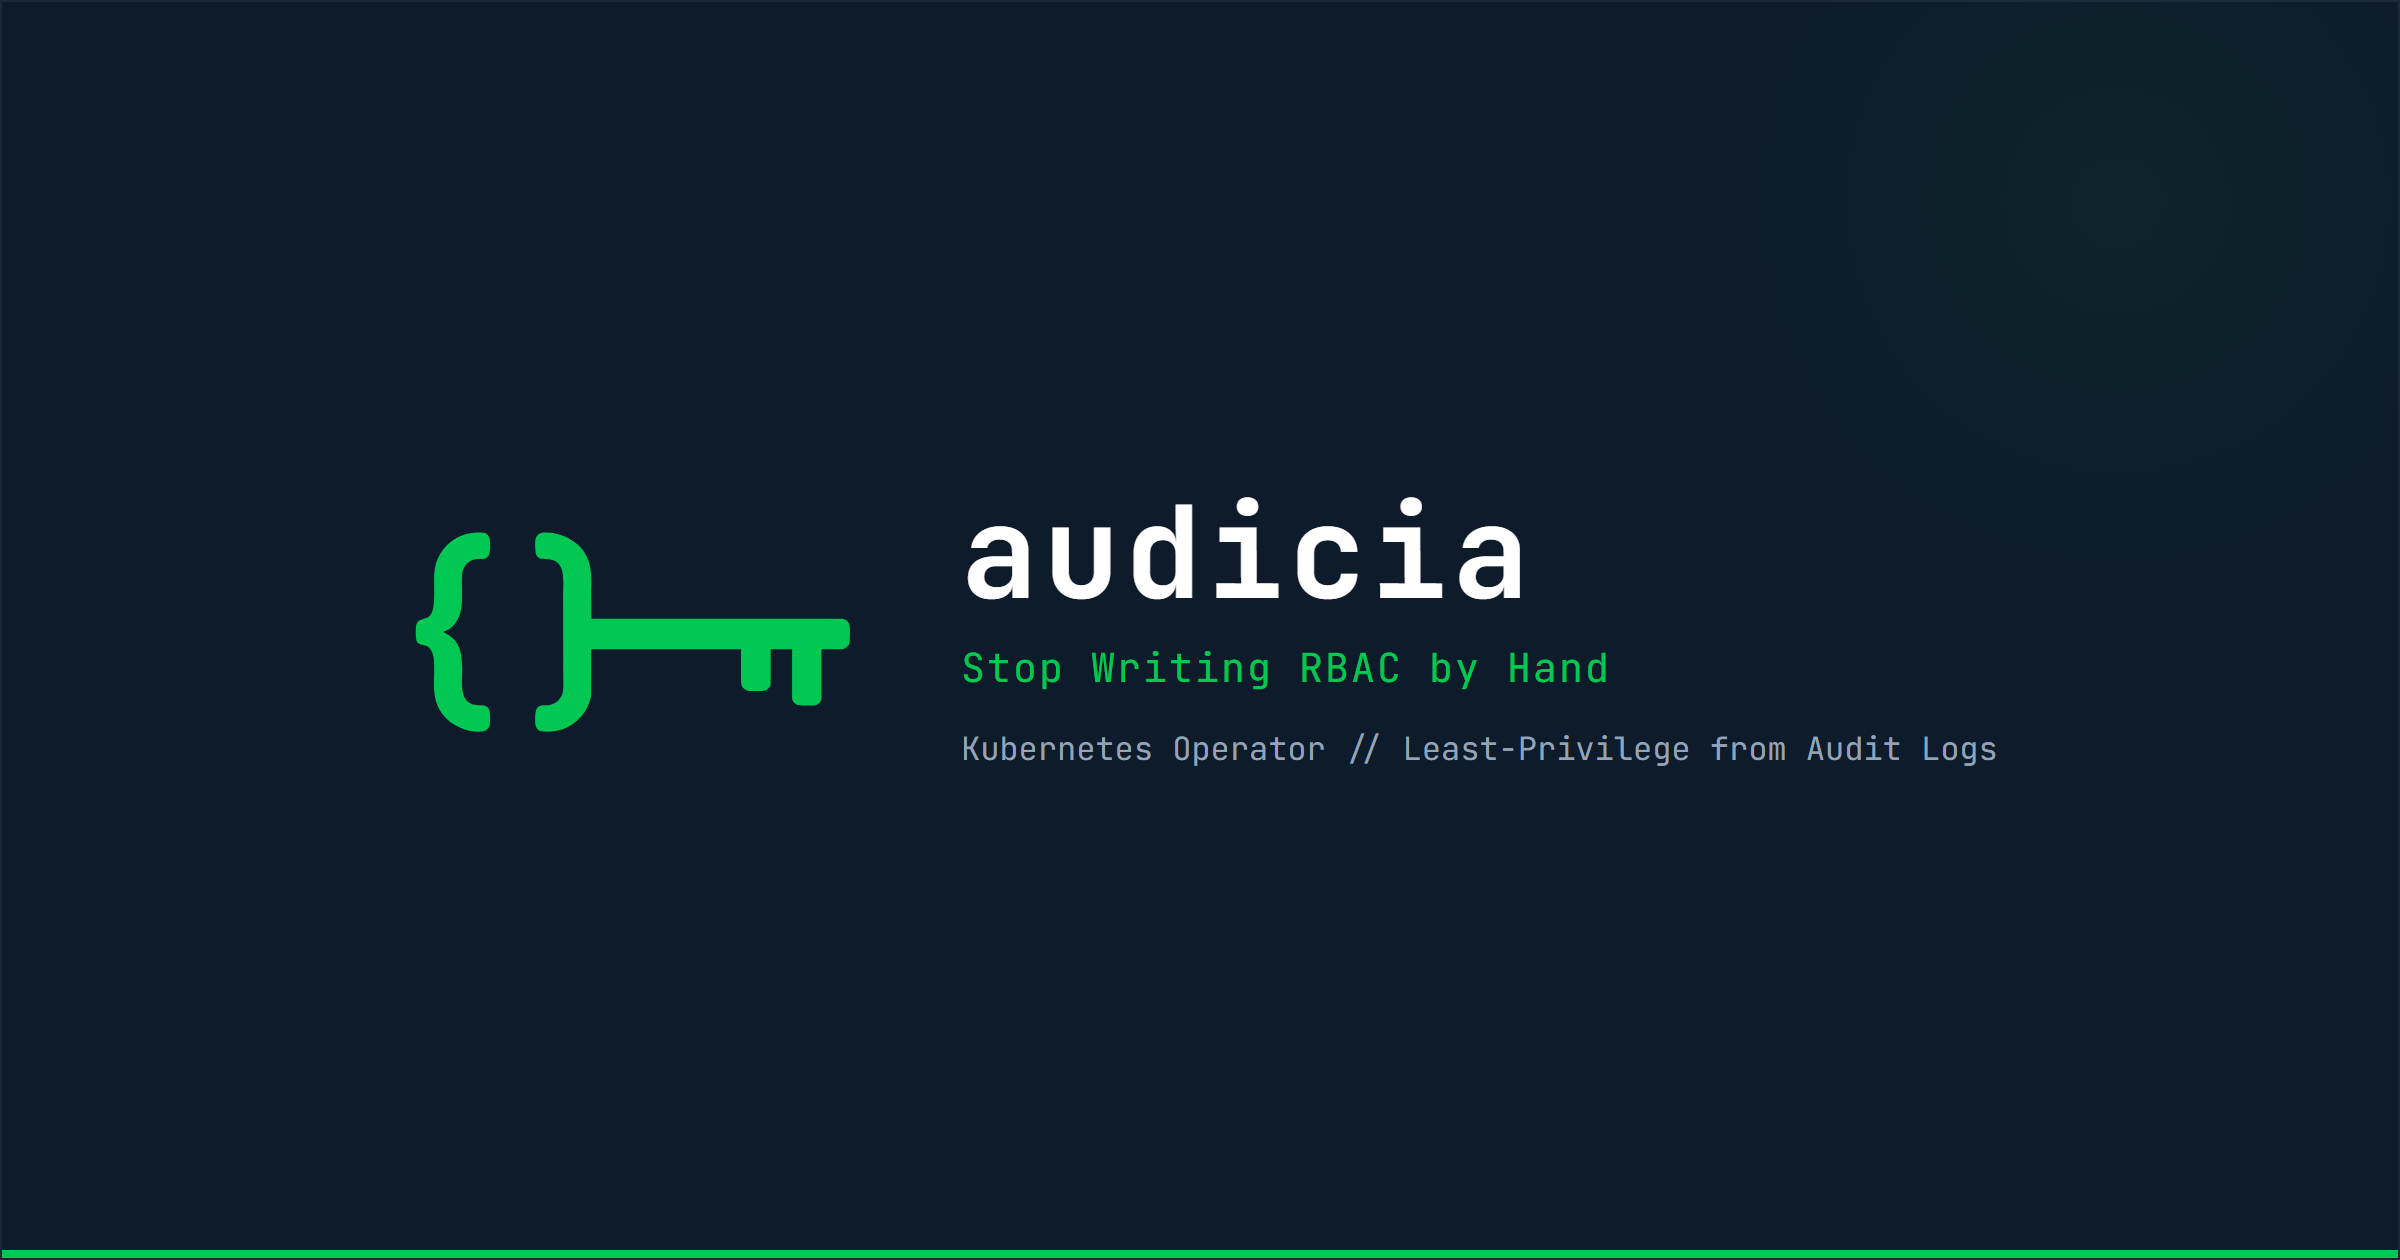
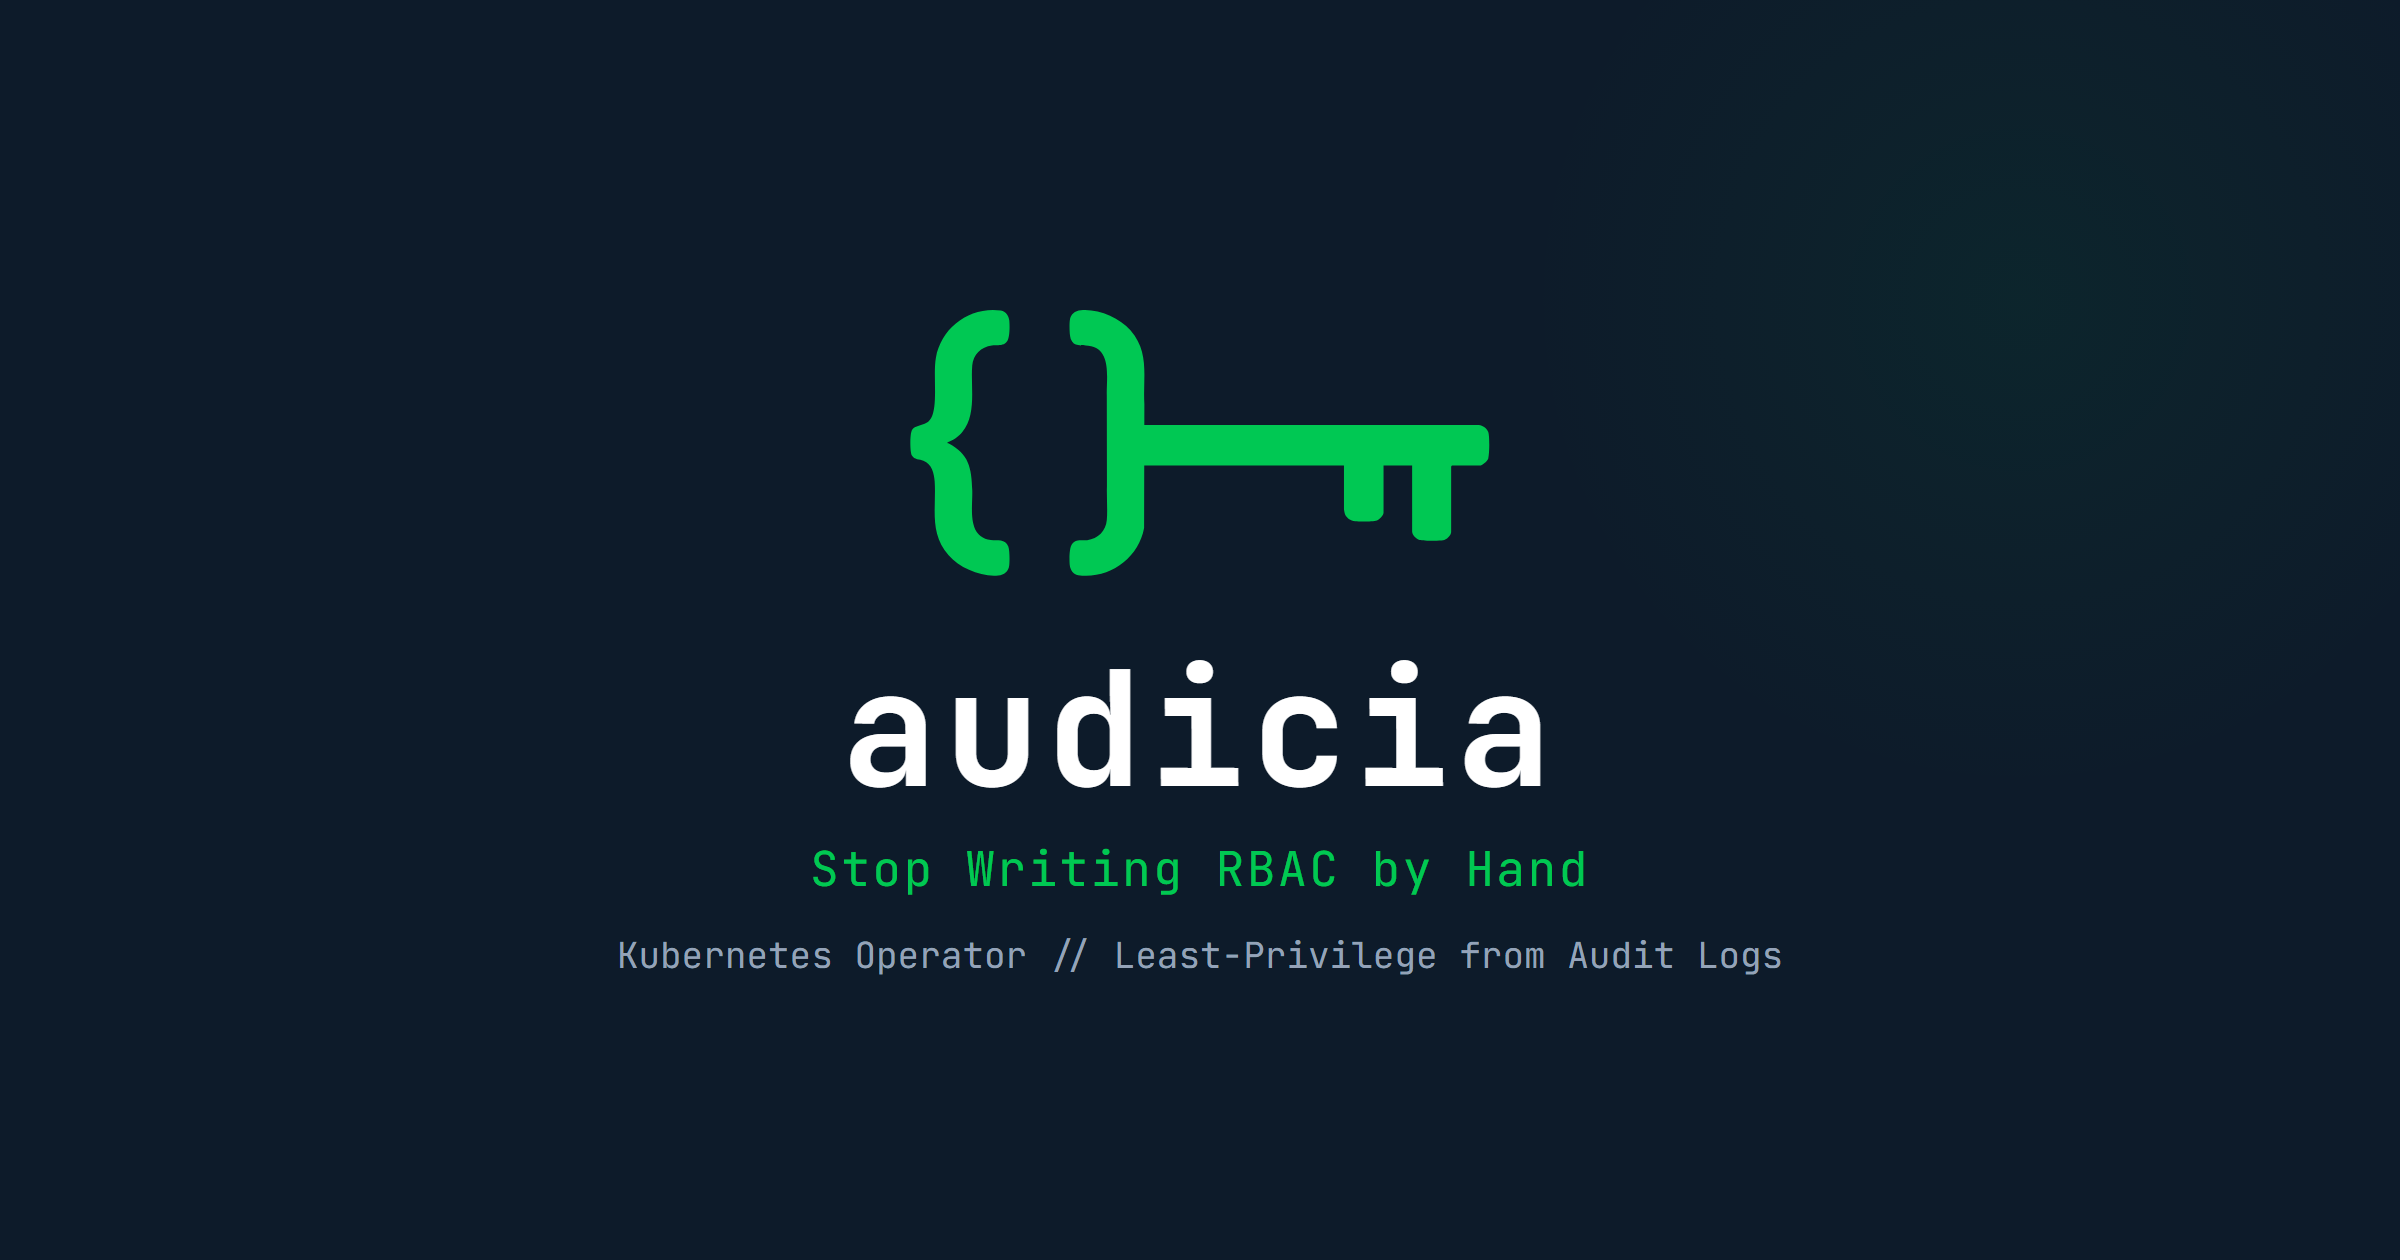
repo: bump to v0.4.0 for public launch
Bump version.json to 0.4.0 and Helm chart appVersion to match.
Update OG social preview image with centered layout for better
rendering in Teams, WhatsApp, and LinkedIn link previews.
Add 0.4.0 changelog entry.

diff --git a/docs/changelog.md b/docs/changelog.md
@@ -7,6 +7,22 @@ Major.Minor, and CI auto-increments the patch on each release to `main`.
 
 ---
 
+## 0.4.0
+
+**Released:** 2026-03-04
+
+Official public launch.
+
+### Changed
+
+- **Version bump to 0.4.0** — first publicly announced release
+- **OG social preview image** — centered layout with larger logo and text for
+  better rendering in Teams, WhatsApp, and LinkedIn link previews
+- **Helm chart appVersion** — updated from `0.1.0` to `0.4.0` to match the
+  release version
+
+---
+
 ## 0.3.10
 
 **Released:** 2026-03-04
